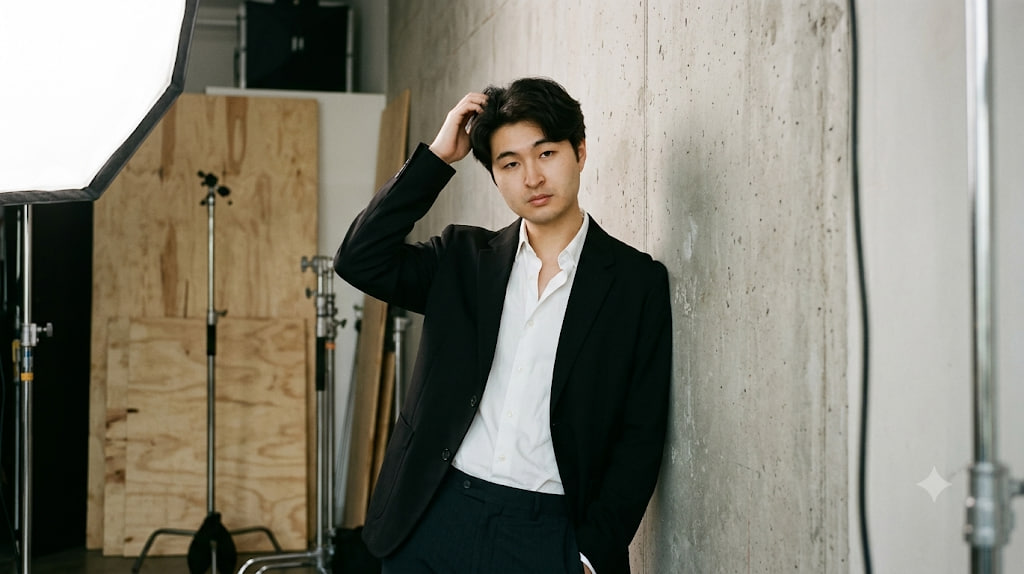
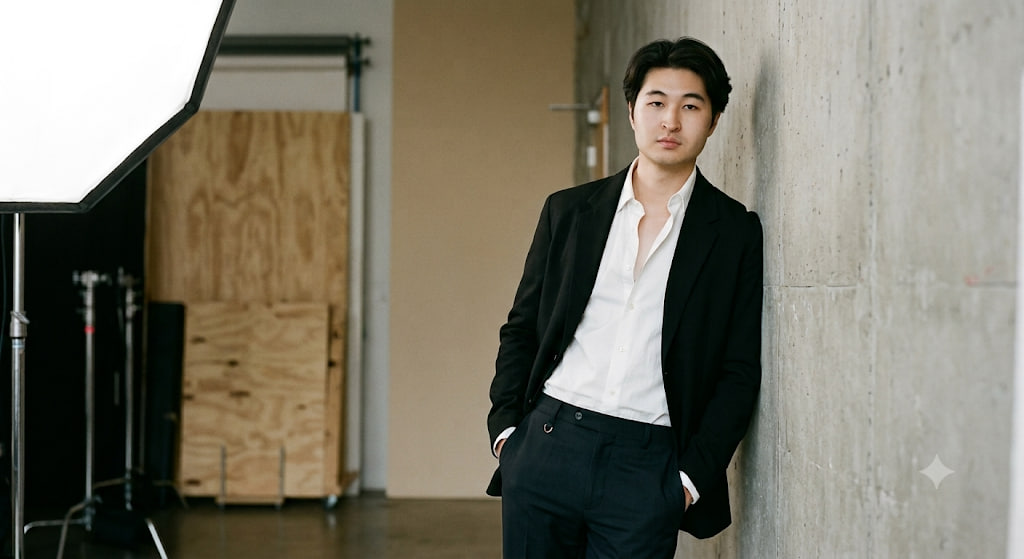
Update portrait/about photos and IzdeMe preview; new IzdeMe link
- New portrait and about studio photos (cache-bust v=3)
- Refresh IzdeMe project preview (v=2) and point card to izdeme.vercel.app

diff --git a/index.html b/index.html
@@ -49,7 +49,7 @@
     </div>
     <div class="hero__photo">
       <!-- Замените assets/portrait.jpg на своё фото -->
-      <img src="assets/portrait.jpg?v=2" alt="Портрет Murat" onerror="this.classList.add('placeholder');this.alt='Добавьте фото в assets/portrait.jpg'" />
+      <img src="assets/portrait.jpg?v=3" alt="Портрет Murat" onerror="this.classList.add('placeholder');this.alt='Добавьте фото в assets/portrait.jpg'" />
       <div class="hero__badge">Открыт для новых проектов</div>
     </div>
   </section>
@@ -186,9 +186,9 @@
 
     <div class="work-grid">
 
-      <a class="work-card work-card--violet" href="https://matol03.github.io/izdeme-demo/Izdeme%20v2.html" target="_blank" rel="noopener noreferrer">
+      <a class="work-card work-card--violet" href="https://izdeme.vercel.app/" target="_blank" rel="noopener noreferrer">
         <div class="work-card__shot">
-          <img src="assets/izdeme.png?v=1" alt="IzdeMe — платформа поиска работы с ИИ" loading="lazy" onerror="this.classList.add('placeholder')" />
+          <img src="assets/izdeme.png?v=2" alt="IzdeMe — платформа поиска работы с ИИ" loading="lazy" onerror="this.classList.add('placeholder')" />
         </div>
         <div class="work-card__meta">
           <h3>IzdeMe</h3>
@@ -222,7 +222,7 @@
   <!-- ===== ОБО МНЕ ===== -->
   <section id="about" class="about">
     <div class="about__photo">
-      <img src="assets/about.jpg?v=2" alt="Murat за работой" onerror="this.classList.add('placeholder')" />
+      <img src="assets/about.jpg?v=3" alt="Murat за работой" onerror="this.classList.add('placeholder')" />
     </div>
     <div class="about__text">
       <p class="eyebrow">Обо мне</p>